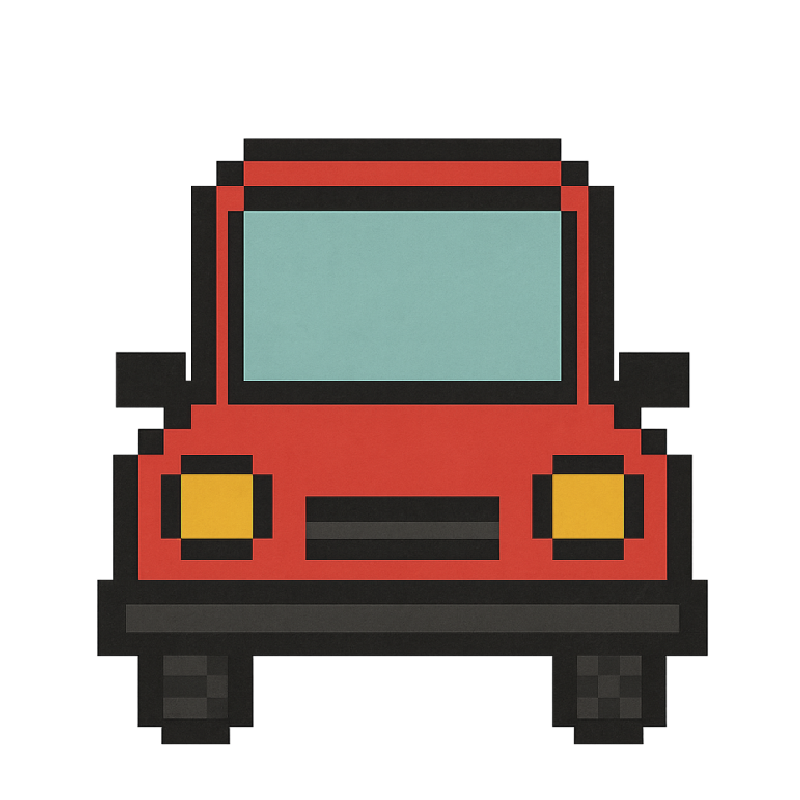
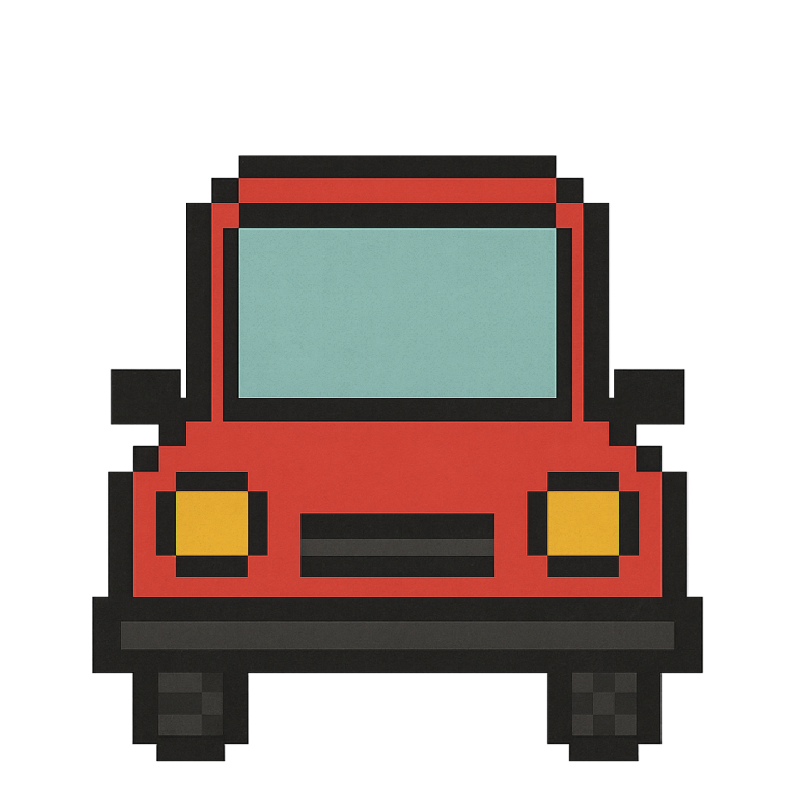
kurumanoanime-syonntuika

Changed region(s): [[0.0938, 0.1562, 0.9062, 0.9688]]

diff --git a/DxLib_TGS2025/Src/Object/car.cpp b/DxLib_TGS2025/Src/Object/car.cpp
@@ -38,6 +38,7 @@ void CarInit(void)
 	car.direction = eRight;//進行方向
 	car.road_count = 0;//取得する道のカウント
 	car.next_count = 0;//取得した道の配列番号
+	car.animation_count = 0;
 	car.goal_flag = false;//ゴールまで道がつながっているかどうか
 
 
@@ -73,6 +74,10 @@ void CarResourceInit(void)
 	car.image[1] = LoadGraph("Resource/images/car2_left.png");
 	car.image[2] = LoadGraph("Resource/images/car2_up.png");
 	car.image[3] = LoadGraph("Resource/images/car2_down.png");
+	car.move_image[0]= LoadGraph("Resource/images/car2_right2.png");
+	car.move_image[1]= LoadGraph("Resource/images/car2_left2.png");
+	car.move_image[2]= LoadGraph("Resource/images/car2_up2.png");
+	car.move_image[3]= LoadGraph("Resource/images/car2_down2.png");
 
 	car.cutin_image[0] = LoadGraph("Resource/images/cutin.png");
 	car.cutin_image[1] = LoadGraph("Resource/images/cutin2.png");
@@ -136,7 +141,7 @@ void CarDraw(void)
 	DrawFormatString(350, 350, GetColor(255, 255, 255), "%d\n%d\n%d", car.next_x[car.next_count], car.next_y[car.next_count], car.next_count);
 	DrawFormatString(400, 350, GetColor(255, 255, 255), "%d\n%d\n%d", car.current_x, car.current_y, car.next_count);
 	DrawFormatString(450, 350, GetColor(255, 255, 255), "%f\n%f\n", car.velocity.x, car.velocity.y );*/
-	/*DrawFormatString(450, 350, GetColor(255, 255, 255), "%d",gameover.image_count); */
+	DrawFormatString(450, 350, GetColor(255, 255, 255), "%d",car.animation_count); 
 }
 
 
@@ -184,6 +189,7 @@ void CarReset(void)
 	car.velocity.y = 0.2f;
 	car.road_count = 0;
 	car.next_count = 0;
+	car.animation_count = 0;
 	car.goal_flag = false;//ゴールまで道がつながっているかどうか
 	overroad = 0;
 	car.start = false;//車の処理フラグ
@@ -238,6 +244,11 @@ void GetBreakRoadPosition(const Tool* tool, int x, int y)
 //車の移動処理
 void CarMovePosition(const CreateStage* stage)
 {
+	car.animation_count++;
+	if (car.animation_count > 60)
+	{
+		car.animation_count = 0;
+	}
 	switch (car.direction)
 	{
 
@@ -249,14 +260,12 @@ void CarMovePosition(const CreateStage* stage)
 			{
 				OverRoad();
 				gameover.image_flag = true;
-				/*car.animation = car.ivy_image[0];*/
 			}
 			if (overroad > 399)
 			{
 				gameover.image_count++;
 				car.position.x += 0.0f;
 				car.position.y += 0.0f;
-				/*gameover.image_flag = true;*/
 
 				if (gameover.image_count > 120)
 				{
@@ -267,7 +276,14 @@ void CarMovePosition(const CreateStage* stage)
 		}
 		break;
 	case eUp://上に
-		car.animation = car.image[2];
+		if (car.animation_count < 30)
+		{
+			car.animation = car.image[2];
+		}
+		else
+		{
+			car.animation = car.move_image[2];
+		}
 		car.position.y -= car.velocity.y;
 		if (car.position.y < (car.current_y * CAR_TROUT_LNEGTH) + 120.2f)//微調整で120に0.2足している
 		{
@@ -282,7 +298,14 @@ void CarMovePosition(const CreateStage* stage)
 		}
 		break;
 	case eDown://下に
-		car.animation = car.image[3];
+		if (car.animation_count < 30)
+		{
+			car.animation = car.image[3];
+		}
+		else
+		{
+			car.animation = car.move_image[3];
+		}
 		car.position.y += car.velocity.y;
 		if (car.position.y > (car.current_y * CAR_TROUT_LNEGTH) + 119.8f)//微調整で120から0.2引いている
 		{
@@ -297,7 +320,15 @@ void CarMovePosition(const CreateStage* stage)
 		}
 		break;
 	case eRight://右に
-		car.animation = car.image[0];
+		if (car.animation_count < 30)
+		{
+			car.animation = car.image[0];
+		}
+		else
+		{
+			car.animation = car.move_image[0];
+		}
+		
 		car.position.x += car.velocity.x;
 		if (car.position.x > (car.current_x * CAR_TROUT_LNEGTH) + 199.8f)//微調整で200から0.2引いている
 		{
@@ -313,7 +344,14 @@ void CarMovePosition(const CreateStage* stage)
 		break;
 
 	case eLeft:
-		car.animation = car.image[1];
+		if (car.animation_count < 30)
+		{
+			car.animation = car.image[1];
+		}
+		else
+		{
+			car.animation = car.move_image[1];
+		}
 		car.position.x -= car.velocity.x;
 		if (car.position.x < (car.current_x * CAR_TROUT_LNEGTH) + 200.2f)//微調整で200から0.2足している
 		{

diff --git a/DxLib_TGS2025/Src/Object/car.h b/DxLib_TGS2025/Src/Object/car.h
@@ -19,6 +19,8 @@ struct Car
     Vector2D speed;
     int animation;
     int image[4];
+    int move_image[4];
+    int animation_count;
     int ivy_image[4];
     int cutin_image[3];
     bool start;
